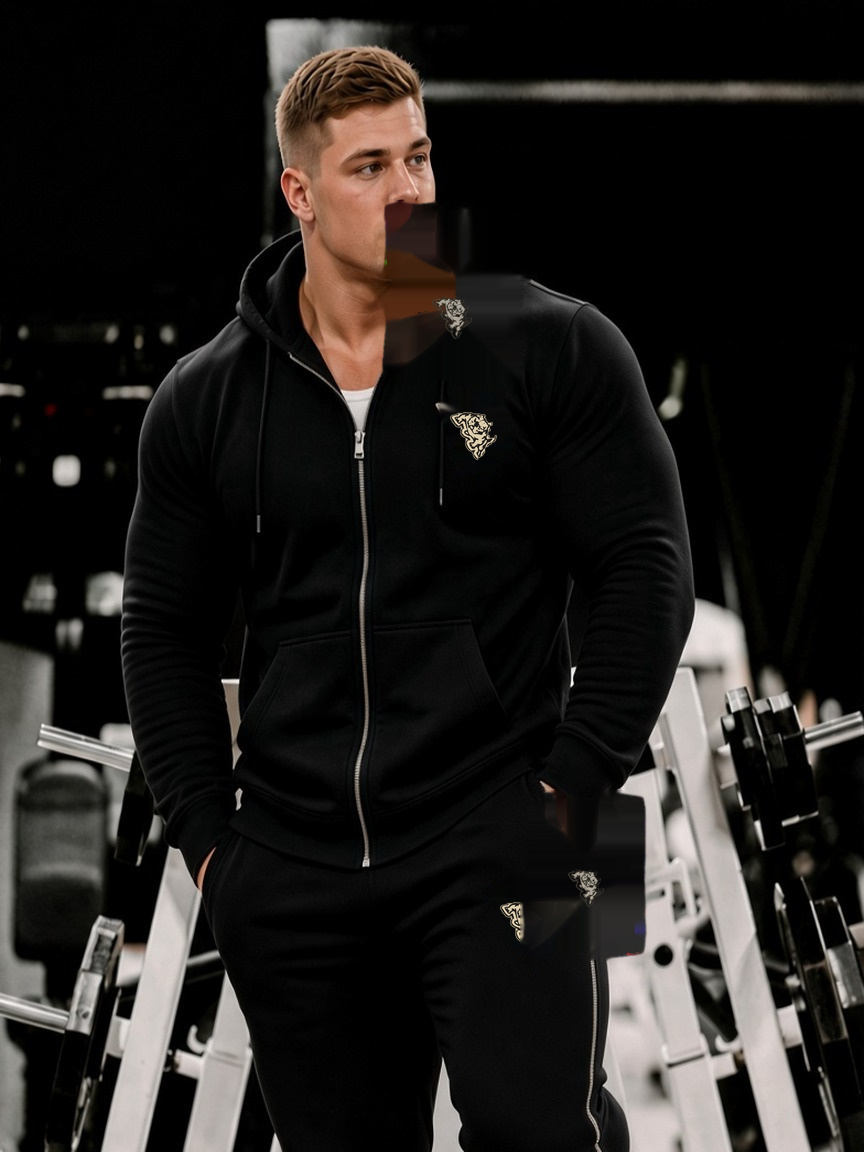
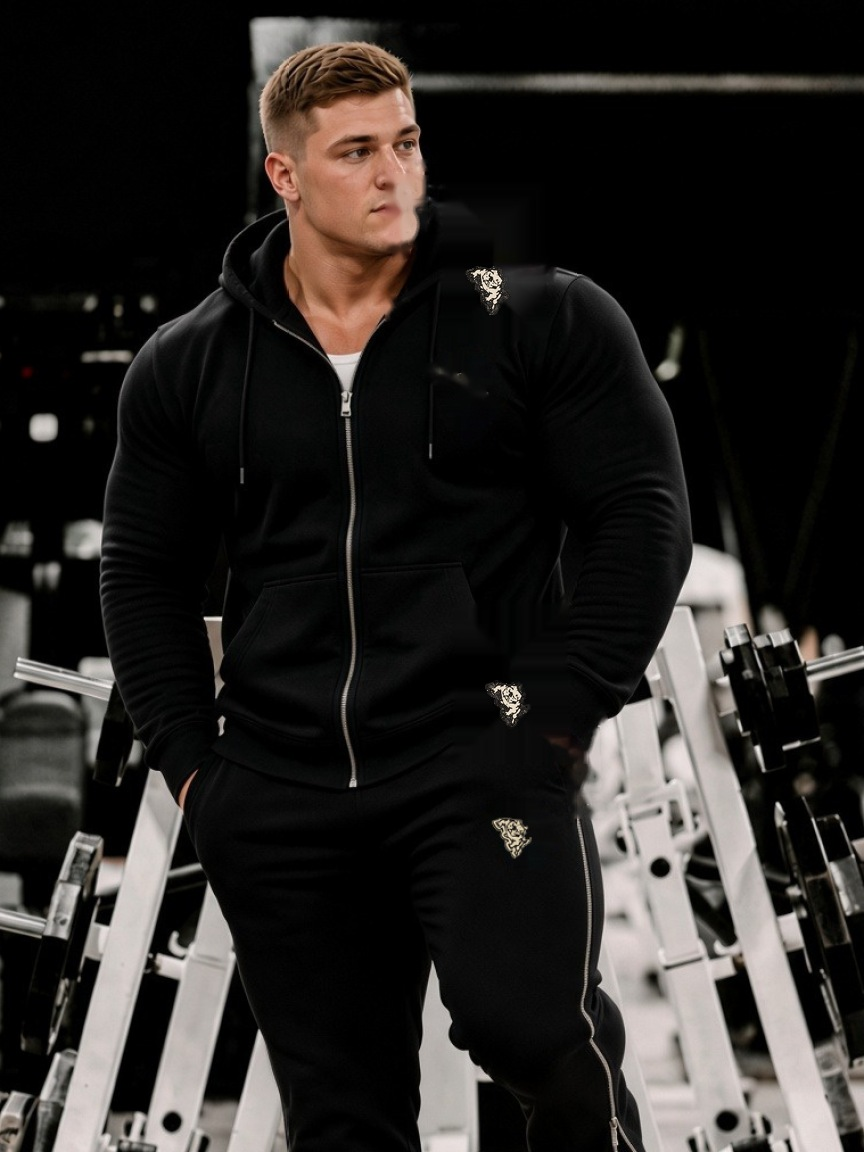
Fix corrupted Mark Zip hero and upright dog stamps.

diff --git a/collections.html b/collections.html
@@ -8,8 +8,8 @@
   <link rel="preconnect" href="https://fonts.gstatic.com" crossorigin>
   <link rel="stylesheet" href="https://fonts.googleapis.com/css2?family=Outfit:wght@400;500;600;700&family=UnifrakturMaguntia&display=swap">
   <title>Collections — BVLLY</title>
-  <link rel="stylesheet" href="css/brand.css?v=20260923n">
-  <link rel="stylesheet" href="css/main.css?v=20260923n">
+  <link rel="stylesheet" href="css/brand.css?v=20260923o">
+  <link rel="stylesheet" href="css/main.css?v=20260923o">
 </head>
 <body data-page="collections">
   <header class="site-header" data-site-header></header>
@@ -31,8 +31,8 @@
 
   <footer class="site-footer" data-site-footer></footer>
 
-  <script src="js/site-config.js?v=20260923n"></script>
-  <script src="js/catalog.js?v=20260923n"></script>
-  <script src="js/layout.js?v=20260923n"></script>
+  <script src="js/site-config.js?v=20260923o"></script>
+  <script src="js/catalog.js?v=20260923o"></script>
+  <script src="js/layout.js?v=20260923o"></script>
 </body>
 </html>

diff --git a/404.html b/404.html
@@ -8,8 +8,8 @@
   <link rel="preconnect" href="https://fonts.gstatic.com" crossorigin>
   <link rel="stylesheet" href="https://fonts.googleapis.com/css2?family=Outfit:wght@400;500;600;700&family=UnifrakturMaguntia&display=swap">
   <title>Page not found — BVLLY</title>
-  <link rel="stylesheet" href="css/brand.css?v=20260923n">
-  <link rel="stylesheet" href="css/main.css?v=20260923n">
+  <link rel="stylesheet" href="css/brand.css?v=20260923o">
+  <link rel="stylesheet" href="css/main.css?v=20260923o">
 </head>
 <body data-page="404">
   <header class="site-header" data-site-header></header>
@@ -26,8 +26,8 @@
 
   <footer class="site-footer" data-site-footer></footer>
 
-  <script src="js/site-config.js?v=20260923n"></script>
-  <script src="js/catalog.js?v=20260923n"></script>
-  <script src="js/layout.js?v=20260923n"></script>
+  <script src="js/site-config.js?v=20260923o"></script>
+  <script src="js/catalog.js?v=20260923o"></script>
+  <script src="js/layout.js?v=20260923o"></script>
 </body>
 </html>

diff --git a/thanks.html b/thanks.html
@@ -8,8 +8,8 @@
   <link rel="preconnect" href="https://fonts.gstatic.com" crossorigin>
   <link rel="stylesheet" href="https://fonts.googleapis.com/css2?family=Outfit:wght@400;500;600;700&family=UnifrakturMaguntia&display=swap">
   <title>Thank you — BVLLY</title>
-  <link rel="stylesheet" href="css/brand.css?v=20260923n">
-  <link rel="stylesheet" href="css/main.css?v=20260923n">
+  <link rel="stylesheet" href="css/brand.css?v=20260923o">
+  <link rel="stylesheet" href="css/main.css?v=20260923o">
 </head>
 <body data-page="thanks">
   <header class="site-header" data-site-header></header>
@@ -24,8 +24,8 @@
 
   <footer class="site-footer" data-site-footer></footer>
 
-  <script src="js/site-config.js?v=20260923n"></script>
-  <script src="js/catalog.js?v=20260923n"></script>
-  <script src="js/layout.js?v=20260923n"></script>
+  <script src="js/site-config.js?v=20260923o"></script>
+  <script src="js/catalog.js?v=20260923o"></script>
+  <script src="js/layout.js?v=20260923o"></script>
 </body>
 </html>

diff --git a/contact.html b/contact.html
@@ -8,8 +8,8 @@
   <link rel="preconnect" href="https://fonts.gstatic.com" crossorigin>
   <link rel="stylesheet" href="https://fonts.googleapis.com/css2?family=Outfit:wght@400;500;600;700&family=UnifrakturMaguntia&display=swap">
   <title>Contact — BVLLY</title>
-  <link rel="stylesheet" href="css/brand.css?v=20260923n">
-  <link rel="stylesheet" href="css/main.css?v=20260923n">
+  <link rel="stylesheet" href="css/brand.css?v=20260923o">
+  <link rel="stylesheet" href="css/main.css?v=20260923o">
 </head>
 <body data-page="contact">
   <header class="site-header" data-site-header></header>
@@ -67,8 +67,8 @@
 
   <footer class="site-footer" data-site-footer></footer>
 
-  <script src="js/site-config.js?v=20260923n"></script>
-  <script src="js/catalog.js?v=20260923n"></script>
-  <script src="js/layout.js?v=20260923n"></script>
+  <script src="js/site-config.js?v=20260923o"></script>
+  <script src="js/catalog.js?v=20260923o"></script>
+  <script src="js/layout.js?v=20260923o"></script>
 </body>
 </html>

diff --git a/privacy.html b/privacy.html
@@ -8,8 +8,8 @@
   <link rel="preconnect" href="https://fonts.gstatic.com" crossorigin>
   <link rel="stylesheet" href="https://fonts.googleapis.com/css2?family=Outfit:wght@400;500;600;700&family=UnifrakturMaguntia&display=swap">
   <title>Privacy — BVLLY</title>
-  <link rel="stylesheet" href="css/brand.css?v=20260923n">
-  <link rel="stylesheet" href="css/main.css?v=20260923n">
+  <link rel="stylesheet" href="css/brand.css?v=20260923o">
+  <link rel="stylesheet" href="css/main.css?v=20260923o">
 </head>
 <body data-page="privacy">
   <header class="site-header" data-site-header></header>
@@ -29,8 +29,8 @@
 
   <footer class="site-footer" data-site-footer></footer>
 
-  <script src="js/site-config.js?v=20260923n"></script>
-  <script src="js/catalog.js?v=20260923n"></script>
-  <script src="js/layout.js?v=20260923n"></script>
+  <script src="js/site-config.js?v=20260923o"></script>
+  <script src="js/catalog.js?v=20260923o"></script>
+  <script src="js/layout.js?v=20260923o"></script>
 </body>
 </html>

diff --git a/product.html b/product.html
@@ -8,8 +8,8 @@
   <link rel="preconnect" href="https://fonts.gstatic.com" crossorigin>
   <link rel="stylesheet" href="https://fonts.googleapis.com/css2?family=Outfit:wght@400;500;600;700&family=UnifrakturMaguntia&display=swap">
   <title>Product — BVLLY</title>
-  <link rel="stylesheet" href="css/brand.css?v=20260923n">
-  <link rel="stylesheet" href="css/main.css?v=20260923n">
+  <link rel="stylesheet" href="css/brand.css?v=20260923o">
+  <link rel="stylesheet" href="css/main.css?v=20260923o">
 </head>
 <body data-page="product">
   <header class="site-header" data-site-header></header>
@@ -22,8 +22,8 @@
 
   <footer class="site-footer" data-site-footer></footer>
 
-  <script src="js/site-config.js?v=20260923n"></script>
-  <script src="js/catalog.js?v=20260923n"></script>
-  <script src="js/layout.js?v=20260923n"></script>
+  <script src="js/site-config.js?v=20260923o"></script>
+  <script src="js/catalog.js?v=20260923o"></script>
+  <script src="js/layout.js?v=20260923o"></script>
 </body>
 </html>

diff --git a/about.html b/about.html
@@ -8,8 +8,8 @@
   <link rel="preconnect" href="https://fonts.gstatic.com" crossorigin>
   <link rel="stylesheet" href="https://fonts.googleapis.com/css2?family=Outfit:wght@400;500;600;700&family=UnifrakturMaguntia&display=swap">
   <title>About — BVLLY</title>
-  <link rel="stylesheet" href="css/brand.css?v=20260923n">
-  <link rel="stylesheet" href="css/main.css?v=20260923n">
+  <link rel="stylesheet" href="css/brand.css?v=20260923o">
+  <link rel="stylesheet" href="css/main.css?v=20260923o">
 </head>
 <body data-page="about">
   <header class="site-header" data-site-header></header>
@@ -29,8 +29,8 @@
 
   <footer class="site-footer" data-site-footer></footer>
 
-  <script src="js/site-config.js?v=20260923n"></script>
-  <script src="js/catalog.js?v=20260923n"></script>
-  <script src="js/layout.js?v=20260923n"></script>
+  <script src="js/site-config.js?v=20260923o"></script>
+  <script src="js/catalog.js?v=20260923o"></script>
+  <script src="js/layout.js?v=20260923o"></script>
 </body>
 </html>

diff --git a/shop.html b/shop.html
@@ -8,8 +8,8 @@
   <link rel="preconnect" href="https://fonts.gstatic.com" crossorigin>
   <link rel="stylesheet" href="https://fonts.googleapis.com/css2?family=Outfit:wght@400;500;600;700&family=UnifrakturMaguntia&display=swap">
   <title>Shop — BVLLY</title>
-  <link rel="stylesheet" href="css/brand.css?v=20260923n">
-  <link rel="stylesheet" href="css/main.css?v=20260923n">
+  <link rel="stylesheet" href="css/brand.css?v=20260923o">
+  <link rel="stylesheet" href="css/main.css?v=20260923o">
 </head>
 <body data-page="shop">
   <header class="site-header" data-site-header></header>
@@ -32,8 +32,8 @@
 
   <footer class="site-footer" data-site-footer></footer>
 
-  <script src="js/site-config.js?v=20260923n"></script>
-  <script src="js/catalog.js?v=20260923n"></script>
-  <script src="js/layout.js?v=20260923n"></script>
+  <script src="js/site-config.js?v=20260923o"></script>
+  <script src="js/catalog.js?v=20260923o"></script>
+  <script src="js/layout.js?v=20260923o"></script>
 </body>
 </html>

diff --git a/index.html b/index.html
@@ -23,8 +23,8 @@
   <meta name="twitter:image" content="https://jimmythegod100.github.io/bvlly/images/og.jpg">
   <link rel="canonical" href="https://jimmythegod100.github.io/bvlly/">
   <link rel="icon" href="favicon.svg">
-  <link rel="stylesheet" href="css/brand.css?v=20260923n">
-  <link rel="stylesheet" href="css/main.css?v=20260923n">
+  <link rel="stylesheet" href="css/brand.css?v=20260923o">
+  <link rel="stylesheet" href="css/main.css?v=20260923o">
 </head>
 <body data-page="home">
   <header class="site-header" data-site-header></header>
@@ -87,8 +87,8 @@
 
   <footer class="site-footer" data-site-footer></footer>
 
-  <script src="js/site-config.js?v=20260923n"></script>
-  <script src="js/catalog.js?v=20260923n"></script>
-  <script src="js/layout.js?v=20260923n"></script>
+  <script src="js/site-config.js?v=20260923o"></script>
+  <script src="js/catalog.js?v=20260923o"></script>
+  <script src="js/layout.js?v=20260923o"></script>
 </body>
 </html>

diff --git a/js/site-config.js b/js/site-config.js
@@ -7,7 +7,7 @@
  */
 (function () {
   // Bump when lookbook JPGs change so browsers skip stale CDN/disk cache.
-  const ASSET_V = '20260923n';
+  const ASSET_V = '20260923o';
 
   const COLORWAYS = [
     { name: 'Pink', slug: 'pink', hex: '#e5b3c5' },
